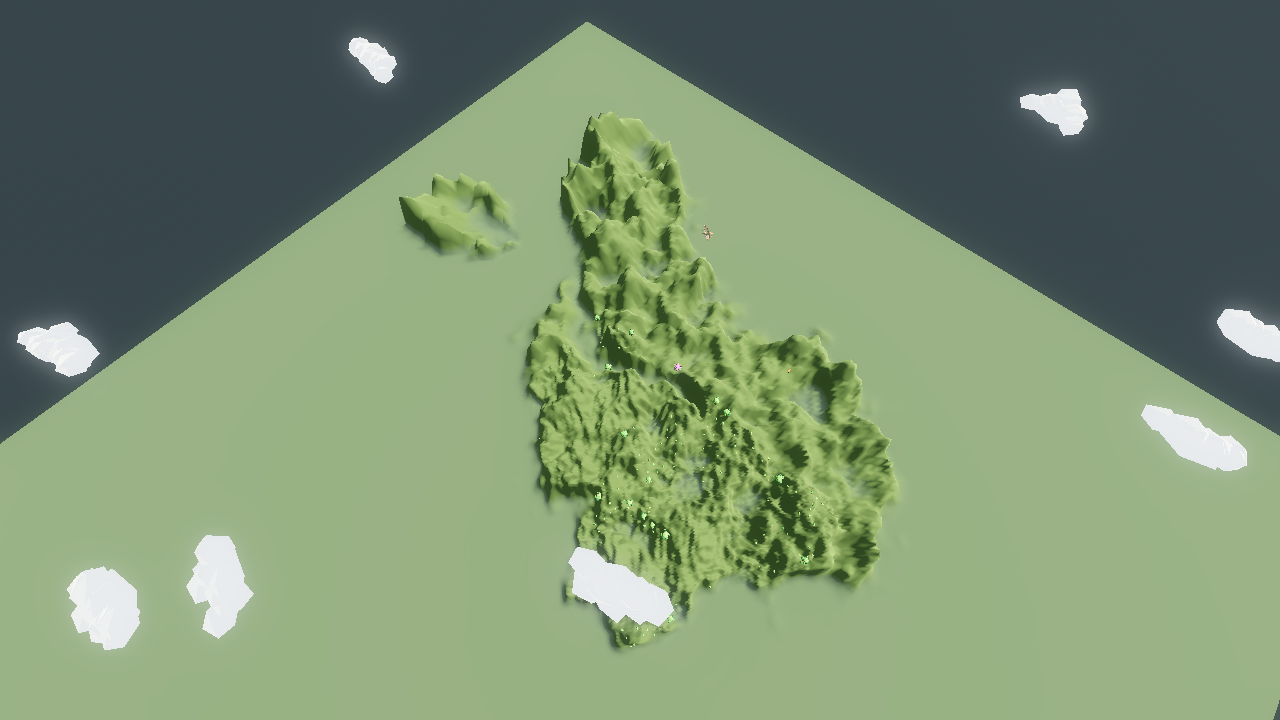
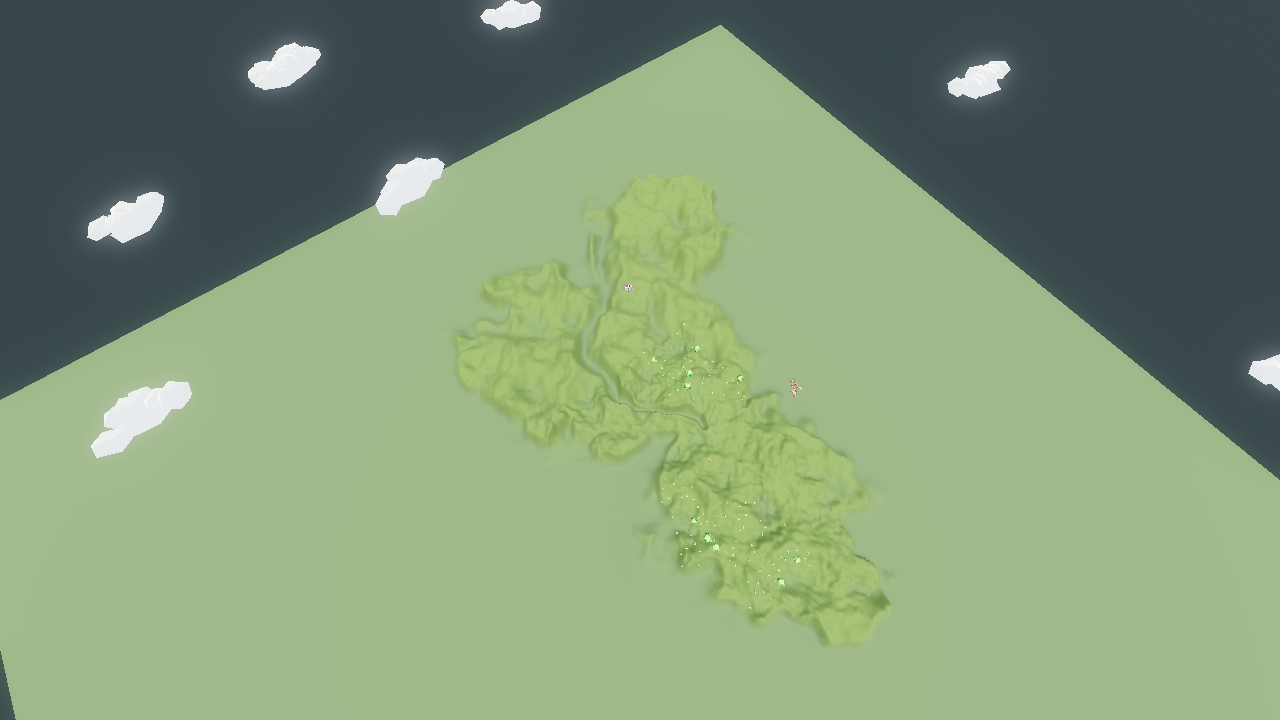
4.18/D-184: retune the island to the Muck direction — mostly flat, gentle rolls, no mountains
Sequoyah's island-feel verdict off the first shipped procedural renders. Three
constants in island_heightmap.gd: HEIGHT_SCALE 26->11, LAND_BIAS 0.54->0.75
(moved together so the flatter interior stays above the 4 m shore biome
boundary), RIDGE_WEIGHT 8.5->2.0 (D-144's ridge machinery survives as rolling
texture, not a skyline). terrain/biome/poi/procedural_world checks 0 failures,
world_contract_check PASS both arms; fresh evidence renders in
assets/audit/terrain.

diff --git a/docs/WORLDGEN.md b/docs/WORLDGEN.md
@@ -60,7 +60,7 @@ and [how Valheim derives everything from one hashed seed](https://cybrancee.com/
 |---|---|---|
 | **fBm heightmap + island falloff** | Lague eps 1–11; what 4.1 already is | **KEEP — the base.** Already built, measured, deterministic. |
 | **Domain warping** (offset the sample position by another noise field) | Inigo Quilez; Kniberg uses it for Minecraft's "shift" noise | **ADOPT (4.13).** The single biggest visual upgrade per unit cost: kills fBm's telltale isotropic blobbiness, makes coastlines and ridgelines read as *geology*. Godot's `FastNoiseLite` has it built in (`domain_warp_*` properties) — same library we already trust, integer-seeded, C1-compatible pending one determinism-probe extension. Cost: ~2 extra noise evaluations per sample, amortized off-thread by 4.3's existing WorkerThreadPool path (C2 ✓). |
-| **Ridged multifractal layer** (abs-folded noise for ridgelines) | Lague; standard fBm variant | **ADOPT (4.13), one octave, masked to highlands.** Gives the plateau/ridge silhouette Hollowmere was hand-authored to have. Pure arithmetic on FastNoiseLite output (C1 ✓). |
+| **Ridged multifractal layer** (abs-folded noise for ridgelines) | Lague; standard fBm variant | **ADOPT (4.13), one octave, masked to highlands — RETUNED DOWN (4.18, D-184).** Sequoyah's island-feel verdict: mostly flat, gentle rolling hills, no mountains (Muck reference). The layer survives as rolling texture (RIDGE_WEIGHT 2.0, HEIGHT_SCALE 11), not a skyline. Pure arithmetic on FastNoiseLite output (C1 ✓). |
 | **Hydraulic erosion** (droplet simulation) | Lague's erosion episode; [terrain-erosion-3-ways](https://github.com/dandrino/terrain-erosion-3-ways) | **SPIKE, don't adopt yet (4.17).** It produces the best-looking valleys in the corpus, and a *bounded* island makes it affordable as a one-time pass at run start (a ~100×100 grid, tens of thousands of seeded droplets, integer-indexed — nothing per-frame, C2 ✓). The risk is C1: iterative float accumulation is exactly where platforms drift. The spike's deliverable is a *measured answer*: extend `tools/check_determinism.gd` with the erosion pass and compare hashes on the D-028 Windows machine. Hash-equal ⇒ adopt; not ⇒ reject permanently and say why in the decision. Do not let the pretty valleys negotiate with C1. |
 | **River carving via graph/spline** (downhill tracing, carve along path) | Patel's polygonal maps put rivers first; Valheim carves lanes with per-biome banks | **ADOPT, simplified (4.14).** Hollowmere's identity IS "a river out of the northern rim through a gorge into the mere" — authored. Procedurally: pick a high point and the mere from the POI pass, trace steepest-descent on the heightfield, carve a widening channel along the path (pure arithmetic, C1 ✓). One river per island, always navigable on foot at the banks. This is *landmark stamping*: guaranteeing the readable terrain feature noise alone can't promise. |
 | **Voronoi/polygonal skeleton** (Patel's whole-island graph) | [Red Blob's polygon map generation](http://www-cs-students.stanford.edu/~amitp/game-programming/polygon-map-generation/) | **REJECT as the base, STEAL the lesson.** A full Voronoi re-architecture would discard 4.1–4.5's built, measured stack for a different one with the same output class at our scale. The lesson worth stealing — *place the things that matter first, then make terrain serve them* — is already how 4.7 works (Wellspring places at priority 0 and wins the good ground) and is how the river (4.14) and POI flattening work. |

diff --git a/docs/DELEGATION.md b/docs/DELEGATION.md
@@ -75,6 +75,26 @@ silently — see the constant's own doc comment for the exact list (replicated p
 
 ## Current state — check `.agent/BOARD.md` before pasting anything
 
+### 2026-08-20 — 4.18 tuning applied: the island is Muck-shaped now — mostly flat, gentle rolls, no mountains (quill5fa5c7)
+
+**D-184.** Sequoyah's verdict off the first shipped renders: "mostly flat, some gentle rolling
+hills is nice but no mountains, look at muck for reference." Three constants in
+`world/gen/island_heightmap.gd` moved, nothing structural: `HEIGHT_SCALE` 26 → **11**, `LAND_BIAS`
+0.54 → **0.75** (the pair moves together — bias sets where the interior sits, scale sets how much
+it rolls; dropping scale alone pushed ordinary noise dips under the 4 m shore/grassland biome
+boundary and scattered sand through the meadows), `RIDGE_WEIGHT` 8.5 → **2.0** (the D-144 ridge
+machinery — only-add, highland mask, biome amplitudes — all still holds; it is texture now, not a
+skyline). `MAX_HEIGHT` follows automatically.
+
+**Verified:** `terrain_check` 0, `biome_check` 0, `poi_check` 0, `procedural_world_check` 0,
+`world_contract_check` PASS both arms. Fresh evidence renders in `assets/audit/terrain/`
+(island_orbit / island_spawn_view / island_shore_look, seed 1744425603) — the orbit shows a flat
+lobed island with the river still cutting through; the spawn view is a sprintable meadow.
+
+**If a later walk wants more verticality back**, D-184 names the reversal: it is those three
+constants, cheap to move.
+
+
 ### 2026-08-20 — 4.19 DONE: the shipped map is procedural. Press Play and you get a generated island (quill5fa5c7)
 
 **What ships.** `run/main_scene` is **`levels/procedural_island.tscn`**: `world/gen/

diff --git a/docs/DECISIONS.md b/docs/DECISIONS.md
@@ -5822,3 +5822,17 @@ change that first loses one and names the seed.
 ladder permits — spacing is never relaxed by design, so a def whose target count exceeds what its
 own `min_spacing_m` allows on the island cannot be rescued by `required` at any rung. That case
 needs the spacing content fixed (F-319) or a real fallback, and this decision does not cover it.
+
+### D-184 · 2026-08-20 · MIRE island terrain targets Muck: mostly flat, gentle rolling hills, no mountains — supersedes the 4.13 ridged-silhouette goal
+Sequoyah's island-feel verdict (2026-08-20, 4.18's tuning input, given off the first shipped
+procedural island renders): "the map should be mostly flat, some gentle rolling hills is nice but
+no mountains, look at muck for reference." This supersedes D-142/D-144's Hollowmere-derived
+"plateau/ridge silhouette" as the AMPLITUDE target — the ridged layer machinery stays (D-144's
+only-add rule, the mask, the biome amplitude tables all hold), but it is tuned as rolling texture
+(RIDGE_WEIGHT 2.0), not a skyline, and HEIGHT_SCALE/LAND_BIAS sit at 11/0.75 so the interior is
+sprintable end to end. Valheim remains the lighting/atmosphere reference; Muck is the terrain-shape
+reference. Applied in world/gen/island_heightmap.gd by quill5fa5c7.
+
+**Would change my mind:** Sequoyah walking a retuned island (a real 4.18 walk, not renders) and
+asking for more verticality back — the tune is three constants, so reversal is cheap and needs no
+structural change.
